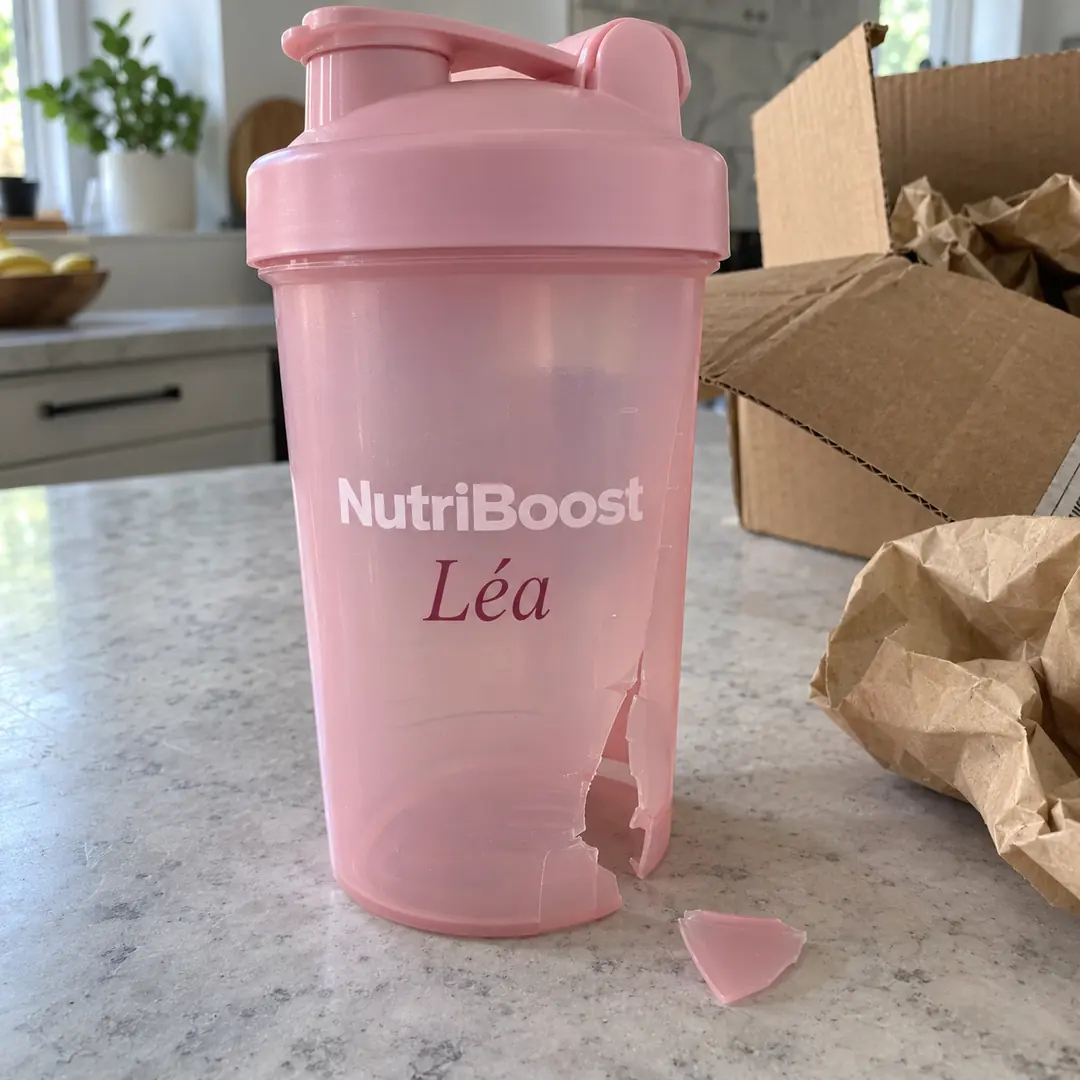
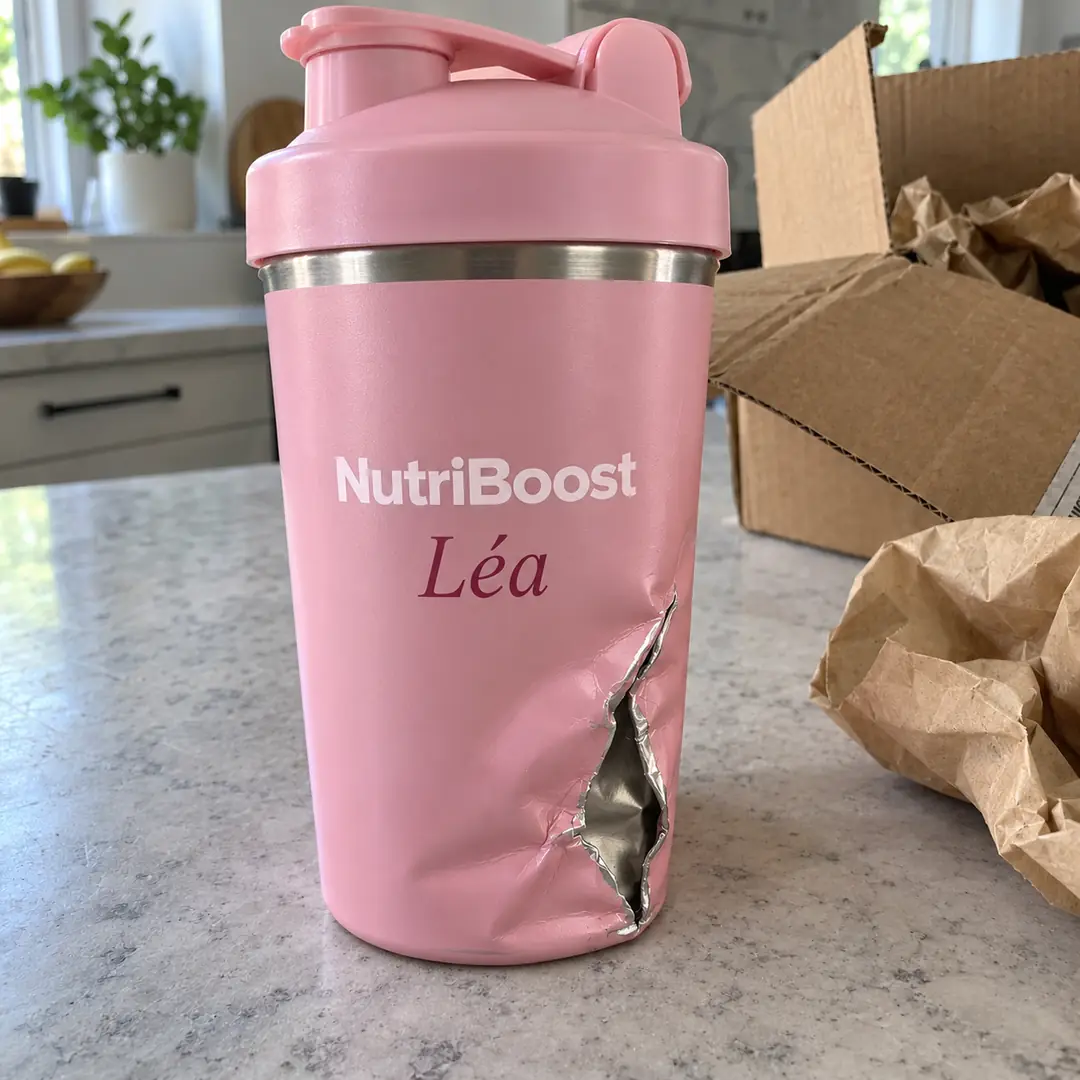
Chapitre 11 : la photo du shaker en inox
Elisa (25 octobre, 18 h 30) : le shaker de Léa Simon est en inox, comme le
produit 8 de la base (Shaker Inox). Sa nouvelle photo remplace l’ancienne
dans le SMS (bulle et photo agrandie) ; le texte lu par VoiceOver dit
« Le shaker inox rose de Léa Simon, arrivé cassé ». Cache v2045.

Claude-Session: https://claude.ai/code/session_01ELpe9oo6rGFta323hfLAme

diff --git a/assets/anim/projet-transaction.html b/assets/anim/projet-transaction.html
@@ -264,13 +264,14 @@ const toi = key => cap(key, 'À toi !', 2.55);
 const {A, B} = SCH;
 /* Les deux messages reçus : [qui (prénom, nom, initiales), sujet (couleur), étiquette, adresse, demande (ses phrases), signature, option].
    Léa Simon écrit elle-même, par SMS, avec la photo de son shaker cassé (Elisa, 25 octobre, 17 h 05 : « La conversation avec Léa s’ouvre et son
-   message s’affiche », la photo dessous, « un appui permet d’agrandir la photo ») ; puis le service client, par SMS lui aussi ({sms: true}).
+   message s’affiche », la photo dessous, « un appui permet d’agrandir la photo » ; 18 h 30 : le shaker est en inox, comme le Shaker Inox de la
+   base) ; puis le service client, par SMS lui aussi ({sms: true}).
    L’app s’arrête sur chaque notification (OPENS) jusqu’au toucher, et sur la photo jusqu’à ce que l’élève l’agrandisse. */
 const MAILS = [
   [['Léa', 'Simon', 'LS'], 'k-cl', 'cliente', 'lea@mail.fr', [
     'Je viens de recevoir ma commande, mais mon shaker personnalisé est arrivé cassé… 😕',
     'Est-ce que vous pouvez m’en renvoyer un ?'], 'Léa Simon',
-    {photo: {id: 'ph1', src: 'projet-transaction-shaker.webp', alt: 'Le shaker rose de Léa Simon, arrivé cassé'}}],
+    {photo: {id: 'ph1', src: 'projet-transaction-shaker.webp', alt: 'Le shaker inox rose de Léa Simon, arrivé cassé'}}],
   [['Le service client', 'NutriBoost', 'SC'], 'k-in', 'équipe', 'service.client@nutriboost.fr', [
     'Nous allons lui envoyer gratuitement un nouveau shaker.',
     'Peux-tu mettre à jour le stock et enregistrer le remplacement pour que l’équipe logistique le prépare ?',

diff --git a/index.html b/index.html
@@ -24980,7 +24980,7 @@ boot();
 if('serviceWorker' in navigator && location.protocol.startsWith('http')){
   /* Même identifiant que CACHE dans sw.js : le paramètre force le navigateur
      à retélécharger le worker quand on déploie, sans attendre l’expiration. */
-  const SW_CACHE='requete-2026-10-12-ludique-v2044';
+  const SW_CACHE='requete-2026-10-12-ludique-v2045';
   /* Exposée pour l’indicateur « Version » de la page Mon compte. */
   window.APP_VERSION=SW_CACHE;
   window.addEventListener('load',()=>{

diff --git a/sw.js b/sw.js
@@ -14,7 +14,7 @@
   CACHE change à chaque déploiement des ressources. APP_VERSION concerne
   les données utilisateur : ne pas le modifier pour un rafraîchissement. */
 
-const CACHE = 'requete-2026-10-12-ludique-v2044';
+const CACHE = 'requete-2026-10-12-ludique-v2045';
 
 const PRECACHE = [
   './',
